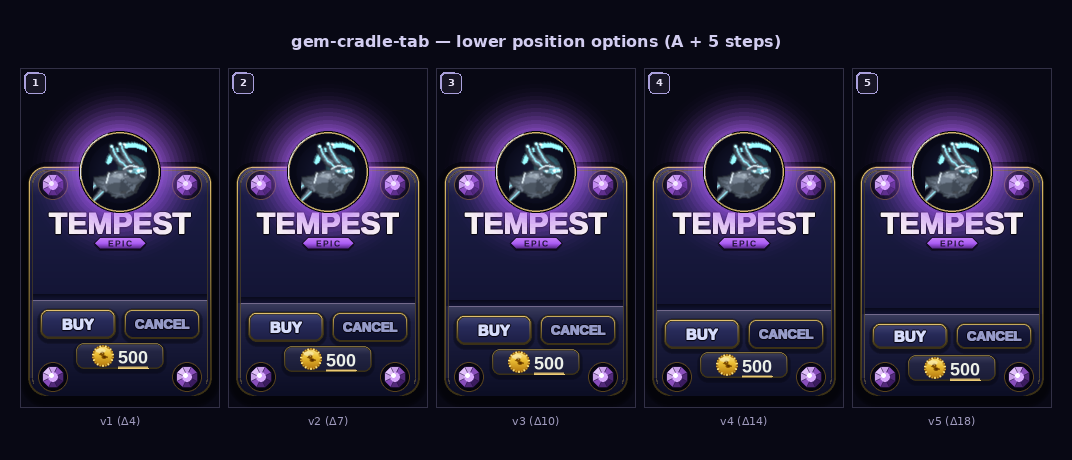
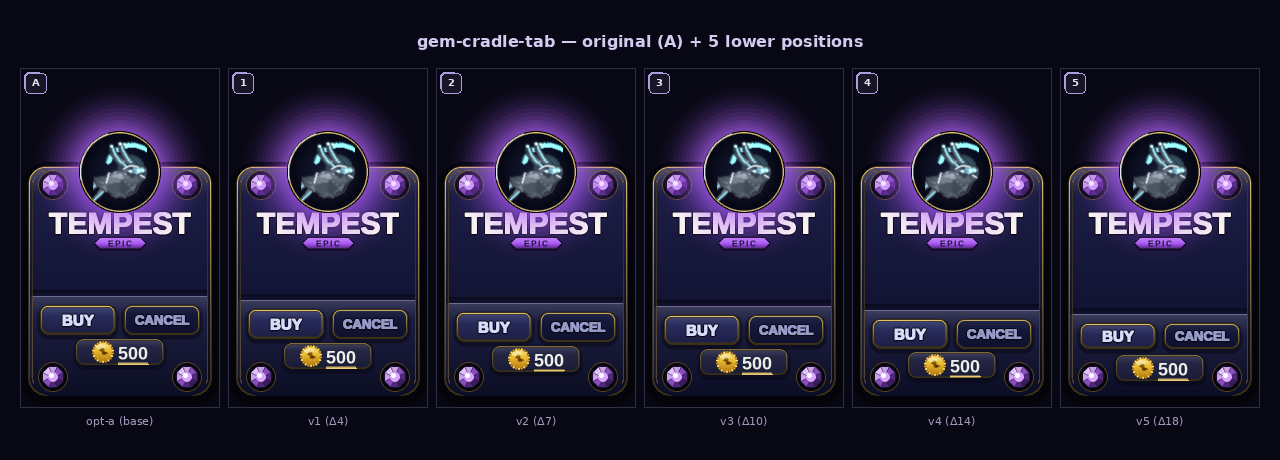
Add opt-A baseline panel to gem-cradle-tab lower-5 showcase

diff --git a/tools/_store_confirm_shelf_v3_shelf_redesign_gem_cradle_tab_lower5_showcase.py b/tools/_store_confirm_shelf_v3_shelf_redesign_gem_cradle_tab_lower5_showcase.py
@@ -1,15 +1,16 @@
-"""gem-cradle-tab lower-position options showcase — v1 through v5."""
+"""gem-cradle-tab lower-position options showcase — opt-A + v1 through v5."""
 from PIL import Image, ImageDraw, ImageFont
 import os
 
 BASE = os.path.dirname(os.path.dirname(os.path.abspath(__file__)))
 
 PANELS = [
-    ("1", "v1 (Δ4)",  "docs/store_confirm_shelf_v3/shelf-redesign/gem-cradle-tab/v1/round_1.png"),
-    ("2", "v2 (Δ7)",  "docs/store_confirm_shelf_v3/shelf-redesign/gem-cradle-tab/v2/round_1.png"),
-    ("3", "v3 (Δ10)", "docs/store_confirm_shelf_v3/shelf-redesign/gem-cradle-tab/v3/round_1.png"),
-    ("4", "v4 (Δ14)", "docs/store_confirm_shelf_v3/shelf-redesign/gem-cradle-tab/v4/round_1.png"),
-    ("5", "v5 (Δ18)", "docs/store_confirm_shelf_v3/shelf-redesign/gem-cradle-tab/v5/round_1.png"),
+    ("A", "opt-a (base)", "docs/store_confirm_shelf_v3/shelf-redesign/gem-cradle-tab/opt-a/round_1.png"),
+    ("1", "v1 (Δ4)",      "docs/store_confirm_shelf_v3/shelf-redesign/gem-cradle-tab/v1/round_1.png"),
+    ("2", "v2 (Δ7)",      "docs/store_confirm_shelf_v3/shelf-redesign/gem-cradle-tab/v2/round_1.png"),
+    ("3", "v3 (Δ10)",     "docs/store_confirm_shelf_v3/shelf-redesign/gem-cradle-tab/v3/round_1.png"),
+    ("4", "v4 (Δ14)",     "docs/store_confirm_shelf_v3/shelf-redesign/gem-cradle-tab/v4/round_1.png"),
+    ("5", "v5 (Δ18)",     "docs/store_confirm_shelf_v3/shelf-redesign/gem-cradle-tab/v5/round_1.png"),
 ]
 
 CROP = (18, 54, 218, 394)   # affordable panel → 200 × 340
@@ -59,7 +60,7 @@ def main():
         font_foot  = font_title
         font_badge = font_title
 
-    title = "gem-cradle-tab — lower position options (A + 5 steps)"
+    title = "gem-cradle-tab — original (A) + 5 lower positions"
     tw = draw.textlength(title, font=font_title)
     draw.text(((W - tw) / 2, MARGIN + (HEADER_H - 16) // 2),
               title, font=font_title, fill=TITLE_C)
